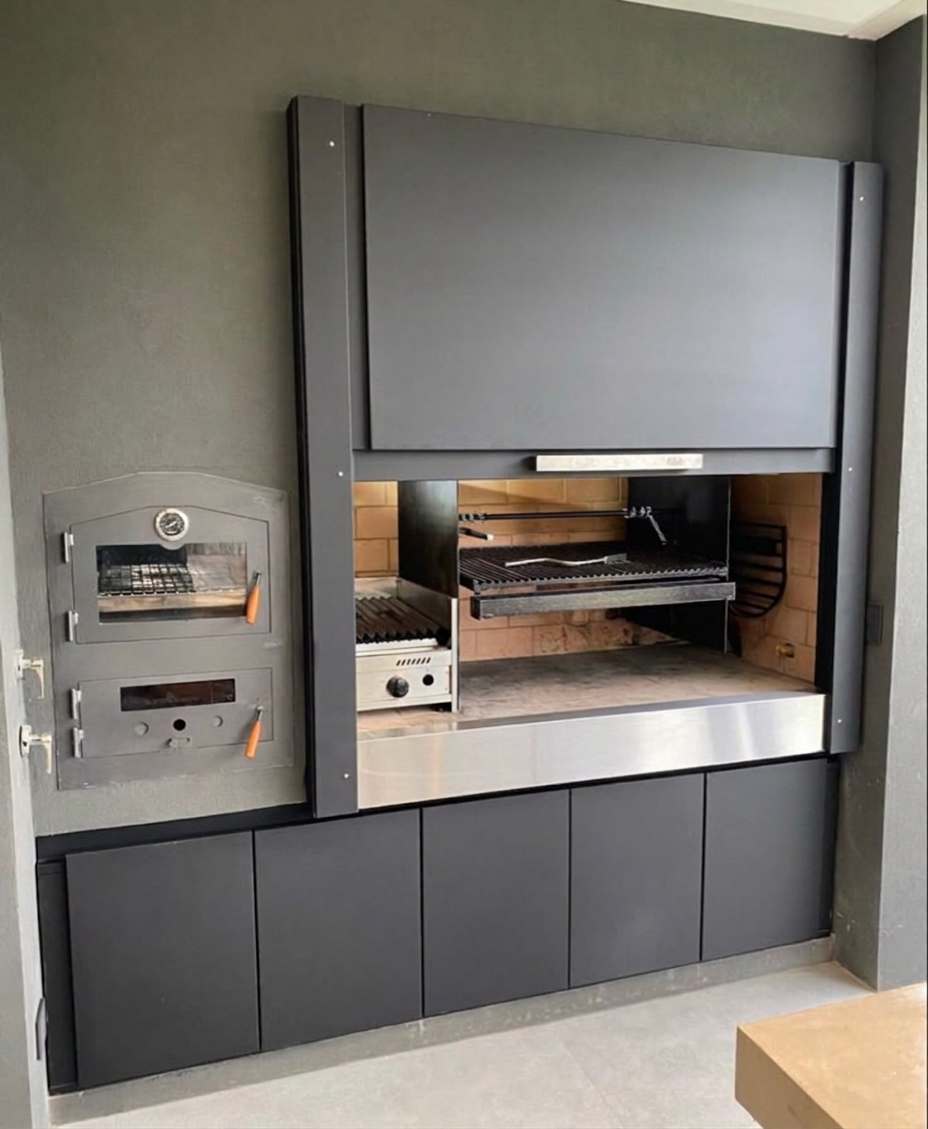
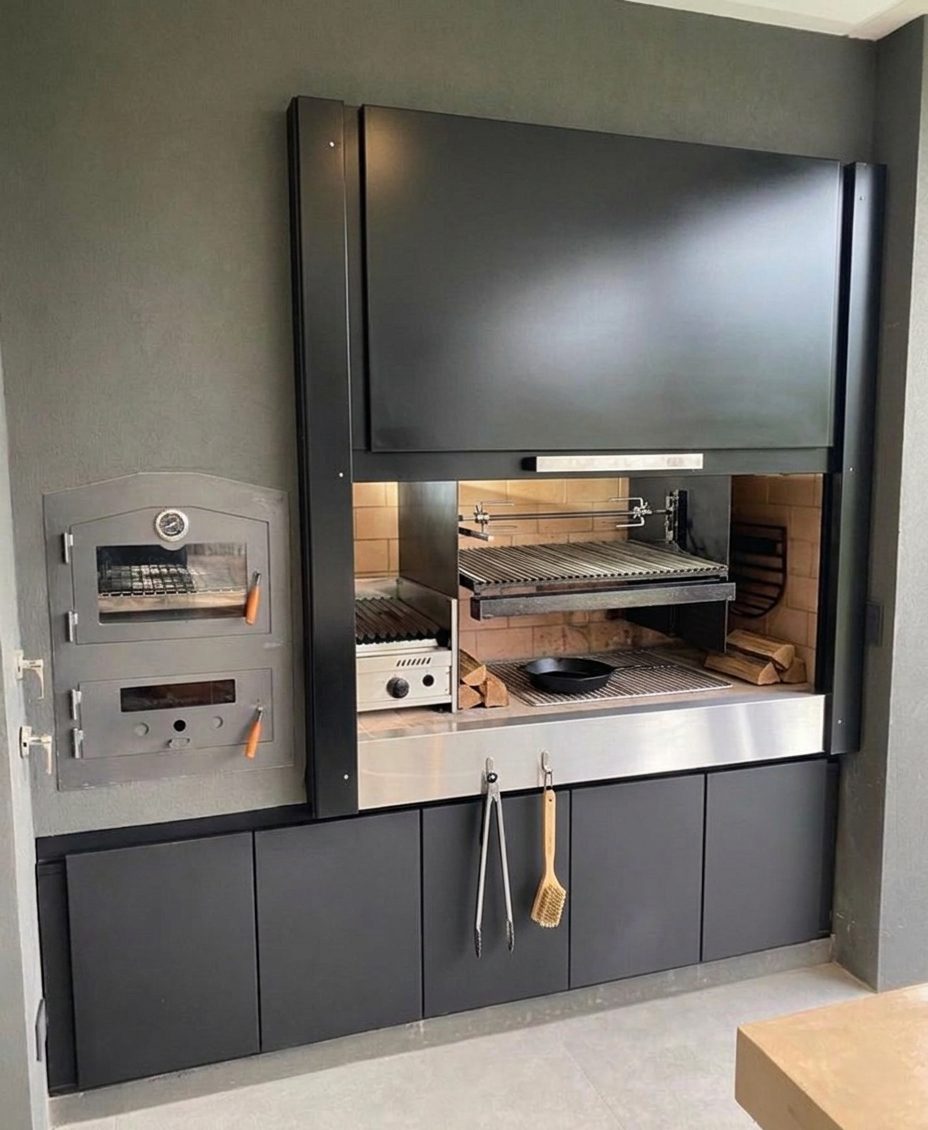
Correciones menores.

Changed region(s): [[0.3125, 0.093, 1.0, 0.837], [0.125, 0.496, 0.1875, 0.527], [0.9688, 0.372, 1.0, 0.403]]

diff --git a/index.html b/index.html
@@ -113,6 +113,11 @@
                   <div class="trab-slider-track">
                     <div class="trab-slider-slide"><img src="assets/images/Parrilla_Integral_Empotrada_Moderna_Limpia.png" alt="Frentes Parrillas 1" /></div>
                     <div class="trab-slider-slide"><img src="assets/images/Parrilla_Integral_Empotrada_Moderna_Cerrada.png" alt="Frentes Parrillas 2" /></div>
+                    <div class="trab-slider-slide">
+                      <video muted loop playsinline preload="metadata">
+                        <source src="assets/video/Frente_Parrilla.mp4" type="video/mp4" />
+                      </video>
+                    </div>
                   </div>
                   <button class="trab-slider-prev" aria-label="Anterior">&#8249;</button>
                   <button class="trab-slider-next" aria-label="Siguiente">&#8250;</button>
@@ -137,12 +142,11 @@
                   <button class="btn-ver">Ver más</button>
                 </div>
               </div>
-              <div class="trab-item trab-item--video" data-src="assets/video/Frente_Parrilla.mp4" data-type="video">
-                <video muted loop playsinline preload="metadata">
-                  <source src="assets/video/Frente_Parrilla.mp4" type="video/mp4" />
-                </video>
+
+              <div class="trab-item" data-src="assets/images/Frente_Parrilla_2.png" data-type="image">
+                <img src="assets/images/Frente_Parrilla_2.png" alt="Barril Ahumador" />
                 <div class="trab-info">
-                  <span>Frente Parrilla</span>
+                  <span>Bajo parrilla</span>
                   <button class="btn-ver">Ver más</button>
                 </div>
               </div>

diff --git a/css/styles.css b/css/styles.css
@@ -385,9 +385,19 @@ a { text-decoration: none; color: inherit; }
 }
 .trab-grid {
   display: grid;
-  grid-template-columns: repeat(3, 1fr);
+  grid-template-columns: repeat(auto-fill, minmax(280px, 1fr));
   gap: 24px;
   padding: 8px 0;
+  justify-content: center;
+  max-width: 100%;
+}
+
+/* Cuando hay 3 o menos items, las columnas no se estiran */
+.trab-grid:has(> :nth-child(1):last-child),
+.trab-grid:has(> :nth-child(2):last-child),
+.trab-grid:has(> :nth-child(3):last-child) {
+  grid-template-columns: repeat(auto-fit, minmax(280px, 320px));
+  justify-content: center;
 }
 
 .trab-item {